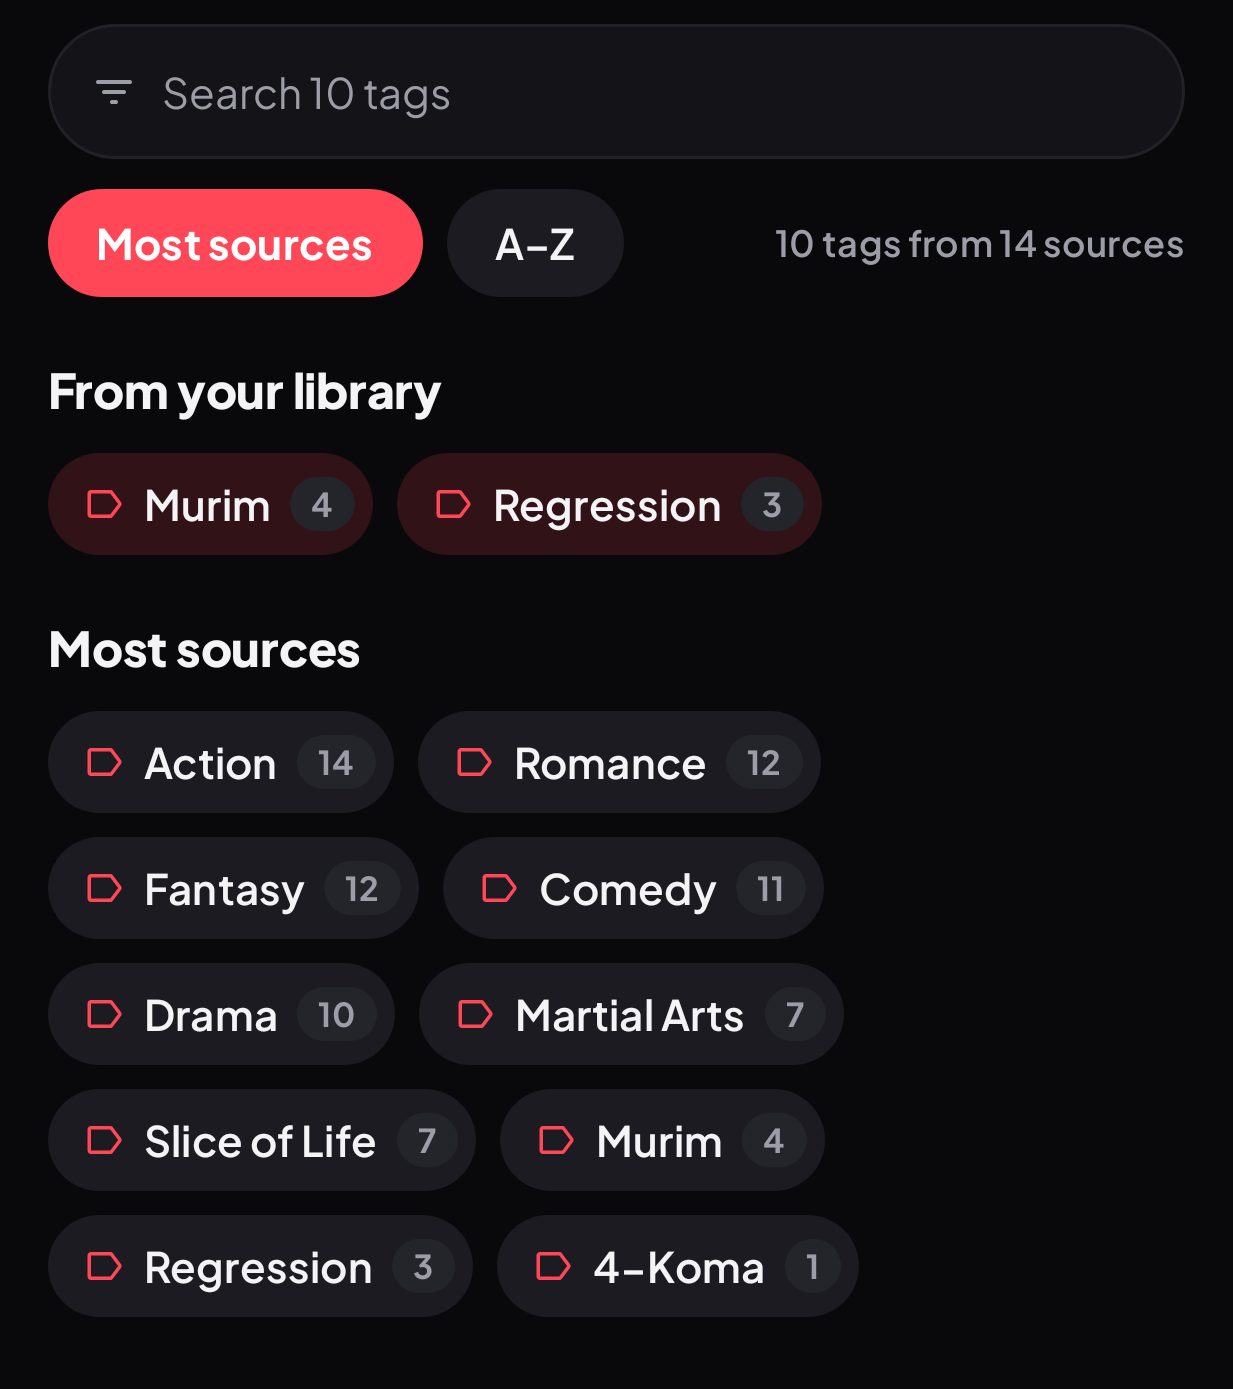
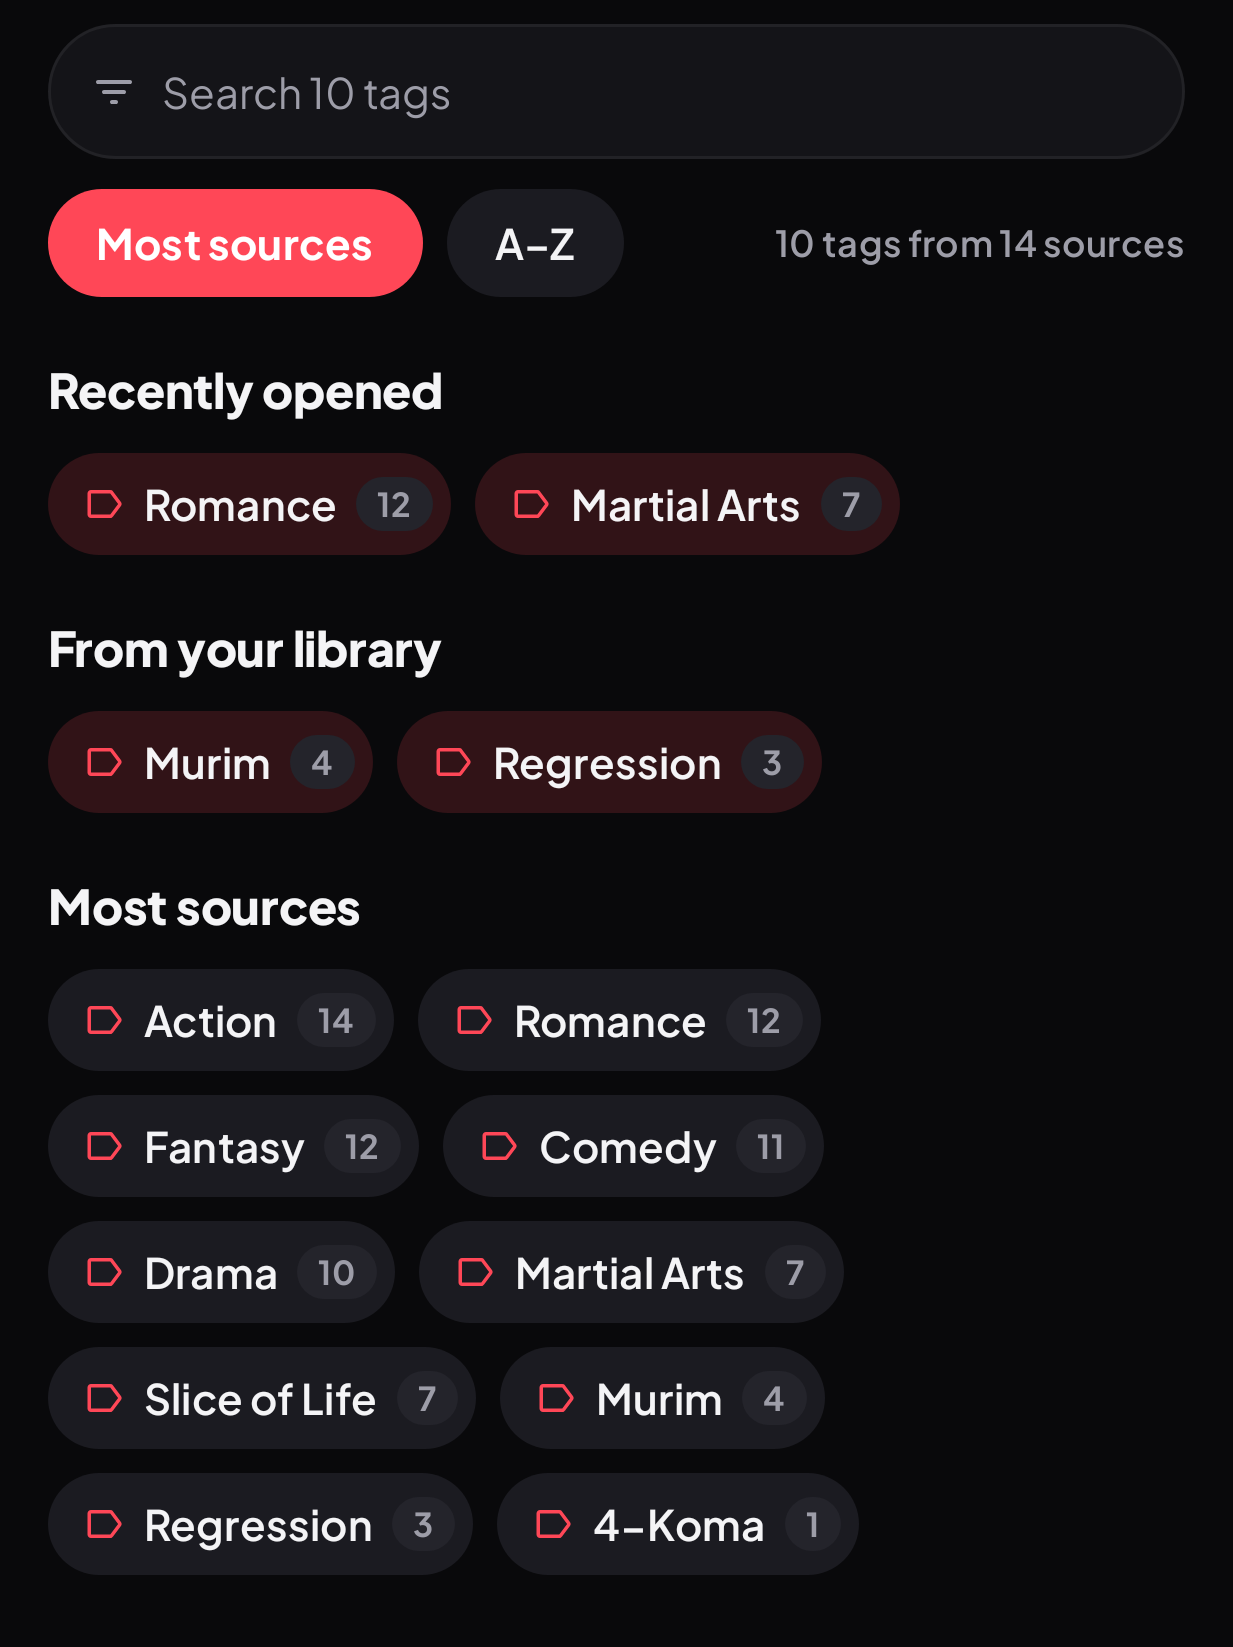
Tags tab: Recently opened tags shown first

diff --git a/app/src/main/java/kurotoon/ui/browse/TagsTab.kt b/app/src/main/java/kurotoon/ui/browse/TagsTab.kt
@@ -113,6 +113,8 @@ private fun TagsPage(
     val sourceCount by remember {
         graph.sourceManager.sources.map { list -> list.count { it is CatalogueSource && it.id != 0L } }
     }.collectAsState(0)
+    val recentPref = remember { graph.kuroPreferences.recentTags }
+    val recent by recentPref.changes().collectAsState(recentPref.get())
     val libraryTags by produceState(emptyList<String>()) {
         value = runCatching {
             val library = withContext(Dispatchers.IO) { graph.getLibraryManga.await() }
@@ -123,9 +125,13 @@ private fun TagsPage(
         tags = all,
         hidden = hidden,
         libraryTags = libraryTags,
+        recentTags = recent,
         sourceCount = sourceCount,
         contentPadding = contentPadding,
-        onTag = onTag,
+        onTag = { tag ->
+            recentPref.getAndSet { kurotoon.catalogue.RecentSearches.add(it, tag).take(RECENT_TAGS) }
+            onTag(tag)
+        },
         onSearchText = onSearchText,
         onHide = { tag ->
             hiddenPref.getAndSet { addHiddenTag(it, tag.name) }
@@ -146,6 +152,7 @@ internal fun TagsContent(
     onSearchText: (String) -> Unit,
     onHide: (SourceTagIndex.Tag) -> Unit,
     initialOrder: Boolean = false,
+    recentTags: List<String> = emptyList(),
 ) {
     var query by rememberSaveable { mutableStateOf("") }
     var order by rememberSaveable { mutableStateOf(if (initialOrder) TagOrder.Alphabetical else TagOrder.Popular) }
@@ -153,6 +160,9 @@ internal fun TagsContent(
 
     val shown = remember(tags, hidden, query) { TagSections.visible(tags.orEmpty(), hidden, query) }
     val known = remember(tags) { tags.orEmpty().associateBy { it.name.lowercase() } }
+    val recent = remember(recentTags, known, hidden) {
+        recentTags.mapNotNull { known[it.lowercase()] }.filter { it.name.lowercase() !in hidden }
+    }
     val yours = remember(libraryTags, known, hidden) {
         libraryTags.mapNotNull { known[it.lowercase()] }.filter { it.name.lowercase() !in hidden }
     }
@@ -226,6 +236,17 @@ internal fun TagsContent(
                 }
             }
             else -> {
+                if (query.isBlank() && recent.isNotEmpty()) {
+                    item(key = "recent") {
+                        TagGroup(
+                            title = stringResource(MR.strings.kurotoon_tags_recent),
+                            tags = recent,
+                            onTag = onTag,
+                            onLongTag = { sheetFor = it },
+                            highlight = true,
+                        )
+                    }
+                }
                 if (query.isBlank() && yours.isNotEmpty()) {
                     item(key = "yours") {
                         TagGroup(
@@ -453,4 +474,5 @@ private fun SheetRow(icon: ImageVector, text: String, onClick: () -> Unit) {
     }
 }
 
+private const val RECENT_TAGS = 8
 private const val LIBRARY_TAGS = 16

diff --git a/app/src/main/java/kurotoon/prefs/KuroPreferences.kt b/app/src/main/java/kurotoon/prefs/KuroPreferences.kt
@@ -159,6 +159,14 @@ class KuroPreferences(private val preferenceStore: PreferenceStore) {
         deserializer = RecentSearches::decode,
     )
 
+    /** Tags last opened from Browse › Tags, newest first. */
+    val recentTags = preferenceStore.getObjectFromString<List<String>>(
+        key = "kurotoon_recent_tags",
+        defaultValue = emptyList(),
+        serializer = RecentSearches::encode,
+        deserializer = RecentSearches::decode,
+    )
+
     /** Recent searches inside one source, newest first (mihon#1409). */
     fun sourceRecentSearches(sourceId: Long) = preferenceStore.getObjectFromString<List<String>>(
         key = "kurotoon_recent_searches_$sourceId",

diff --git a/app/src/test/java/kurotoon/screenshots/KuroScreenshots.kt b/app/src/test/java/kurotoon/screenshots/KuroScreenshots.kt
@@ -879,6 +879,7 @@ class KuroScreenshots {
             tags = tags,
             hidden = setOf("isekai"),
             libraryTags = listOf("Murim", "Regression"),
+            recentTags = listOf("Romance", "Martial Arts"),
             sourceCount = 14,
             contentPadding = androidx.compose.foundation.layout.PaddingValues(0.dp),
             onTag = {},

diff --git a/CHANGELOG.md b/CHANGELOG.md
@@ -6,6 +6,7 @@ All notable changes to KuroToon are documented here. Versions follow
 ## [Unreleased]
 
 ### Added
+- Browse › Tags remembers the last tags you opened and shows them first under Recently opened
 - Browse › Tags: every tag your installed sources offer in one searchable page, by most sources or A–Z, with how many sources carry each and your library's tags on top. Tap a tag to browse it on every source; long-press to search titles with it or hide it everywhere
 
 ### Changed
